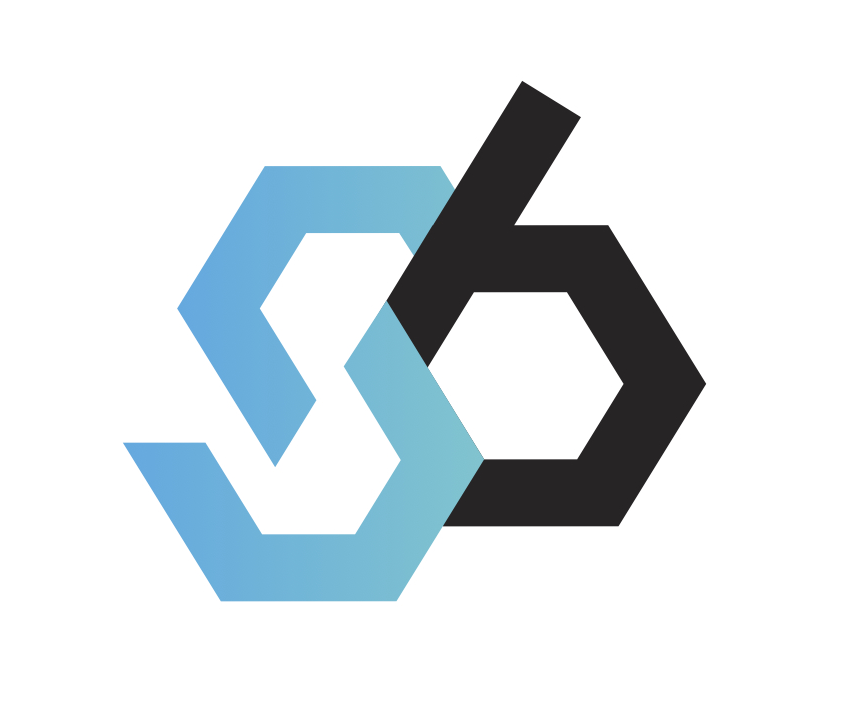
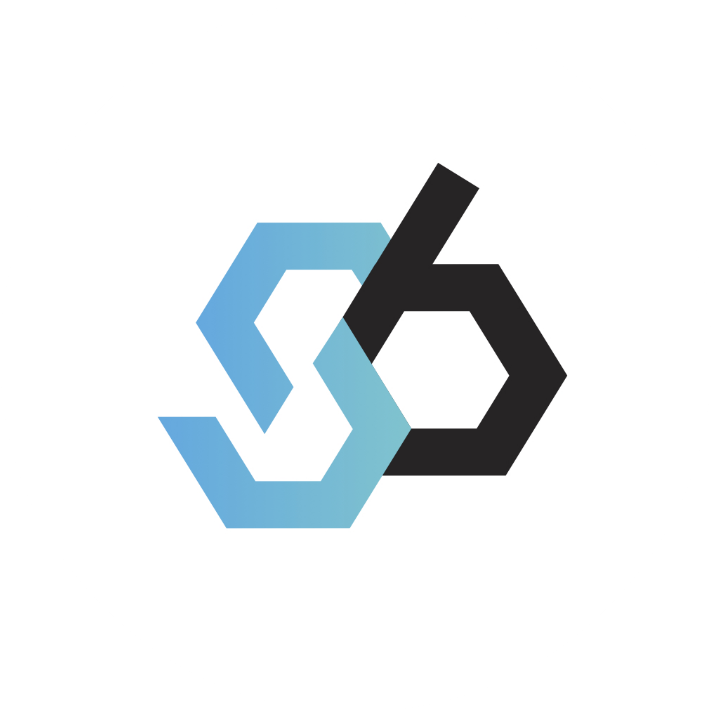
change image shapes

Changed region(s): [[0.1236, 0.1236, 0.8343, 0.8652]]

diff --git a/snowman.html b/snowman.html
@@ -44,7 +44,7 @@
 <div class="wrapper style1" id="main">
 <div class="container">
 <header class="major">
-<h2><a><img alt="" height="154px" src="images/studybuddy.png" width="178px" /></a></h2>
+<h2><a><img alt="" height="200px" src="images/studybuddy.png" width="200px" /></a></h2>
 
 <p>Study Buddy! Let&#39;s Study Together!</p>
 </header>

diff --git a/china.html b/china.html
@@ -44,7 +44,7 @@
 <div class="wrapper style1" id="main">
 <div class="container">
 <header class="major">
-<h2><a><img alt="" height="154px" src="images/security.jpg" width="178px" /></a></h2>
+<h2><a><img alt="" height="200px" src="images/security.png" width="200px" /></a></h2>
 
 <h2>Recreation of China&#39;s Great Cannon.</h2>
 </header>

diff --git a/elm.html b/elm.html
@@ -44,7 +44,7 @@
 <div class="wrapper style1" id="main">
 <div class="container">
 <header class="major">
-<h2><a><img alt="" height="154px" src="images/elmlogo.png" width="178px" /></a></h2>
+<h2><a><img alt="" height="200px" src="images/elmlogo.png" width="200px" /></a></h2>
 
 <p>Make an Impact. Grow together.</p>
 </header>

diff --git a/worm.html b/worm.html
@@ -44,7 +44,7 @@
 <div class="wrapper style1" id="main">
 <div class="container">
 <header class="major">
-<h2><a><img alt="" height="154px" src="images/security.jpg" width="178px" /></a></h2>
+<h2><a><img alt="" height="200px" src="images/security.png" width="200px" /></a></h2>
 
 <h2>Myspace Profile Worm.</h2>
 </header>

diff --git a/buffer.html b/buffer.html
@@ -44,7 +44,7 @@
 <div class="wrapper style1" id="main">
 <div class="container">
 <header class="major">
-<h2><a><img alt="" height="154px" src="images/security.jpg" width="178px" /></a></h2>
+<h2><a><img alt="" height="200px" src="images/security.png" width="200px" /></a></h2>
 
 <h2>Buffer Overflow.</h2>
 </header>

diff --git a/heap.html b/heap.html
@@ -44,7 +44,7 @@
 <div class="wrapper style1" id="main">
 <div class="container">
 <header class="major">
-<h2><a><img alt="" height="154px" src="images/security.jpg" width="178px" /></a></h2>
+<h2><a><img alt="" height="200px" src="images/security.png" width="200px" /></a></h2>
 
 <h2>Heap Spray.</h2>
 </header>
